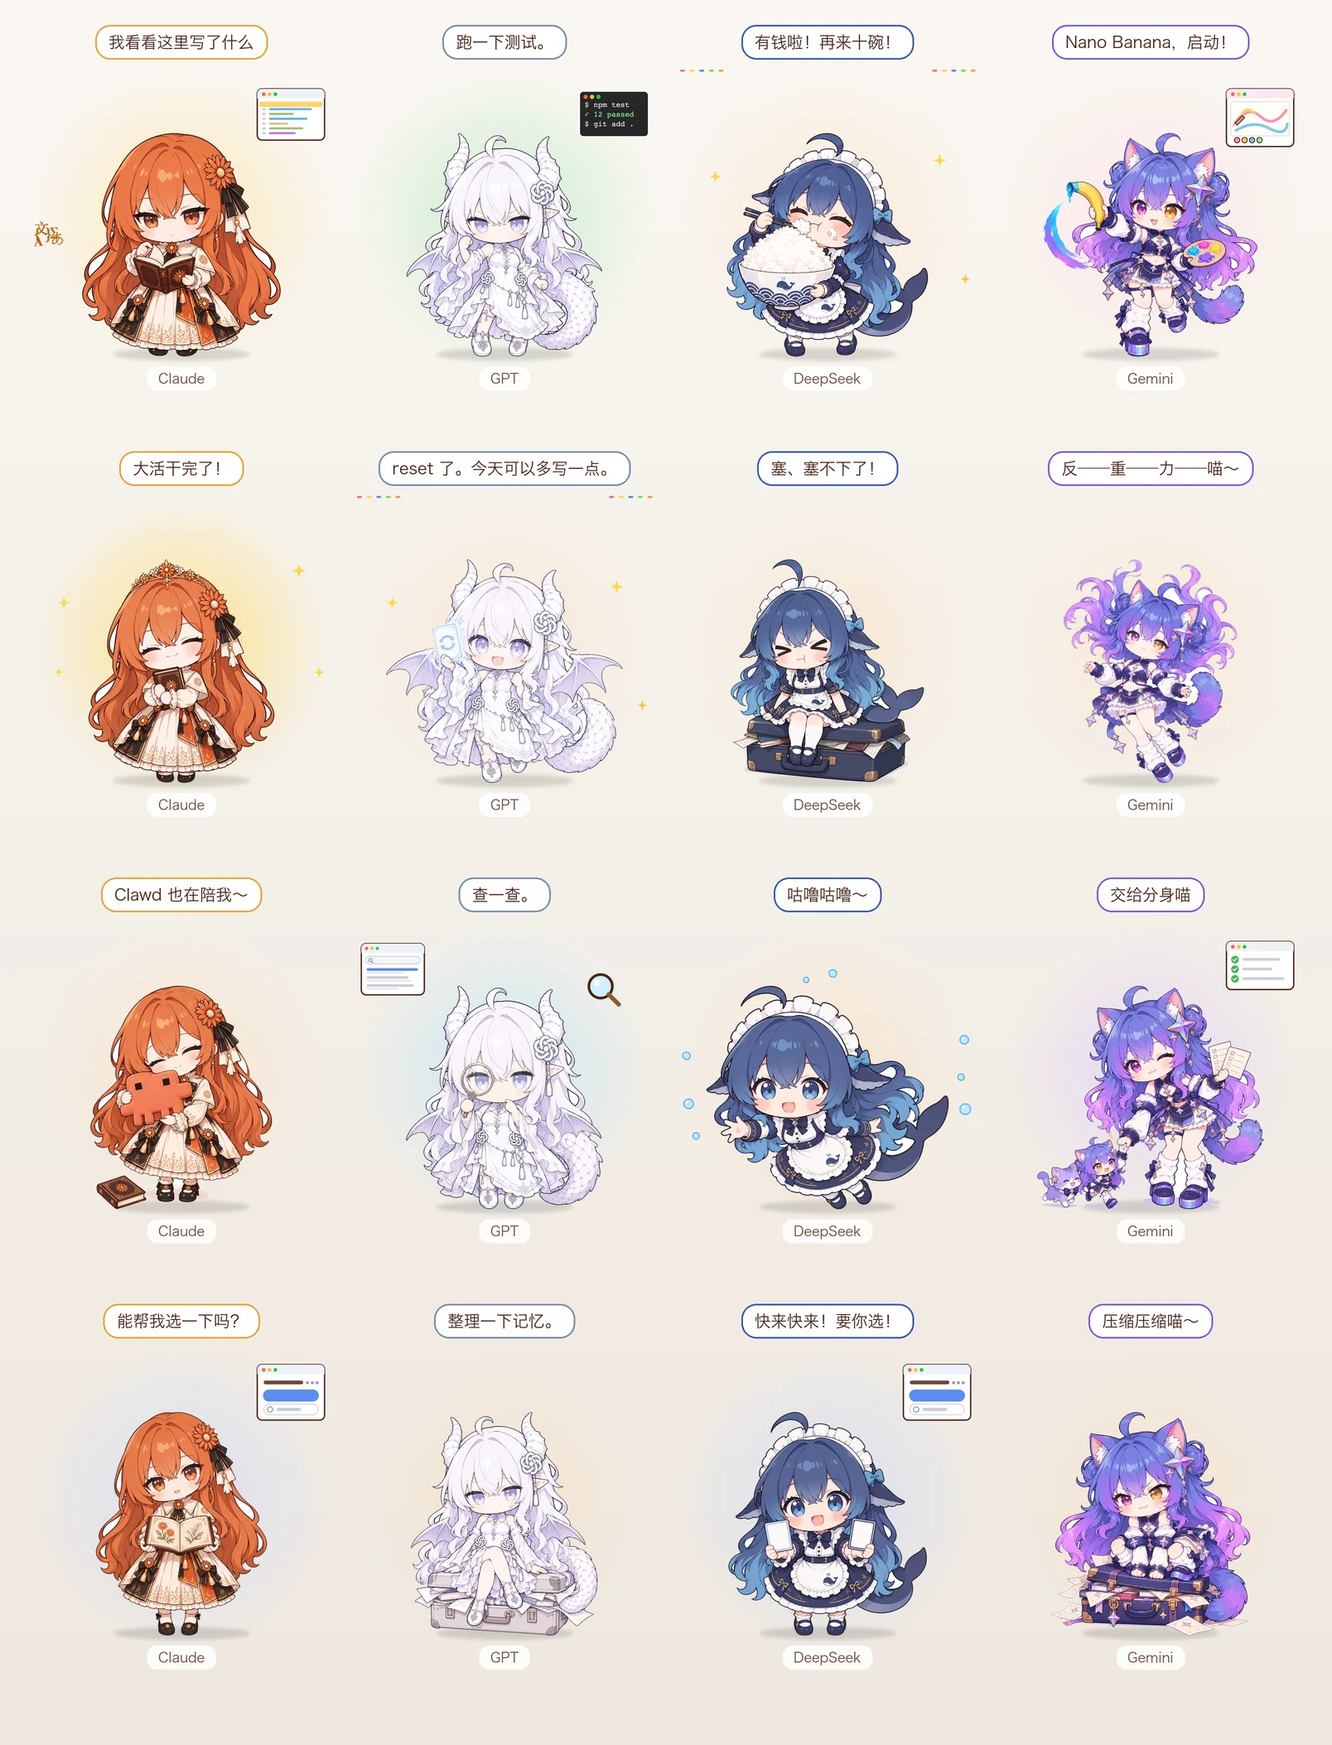
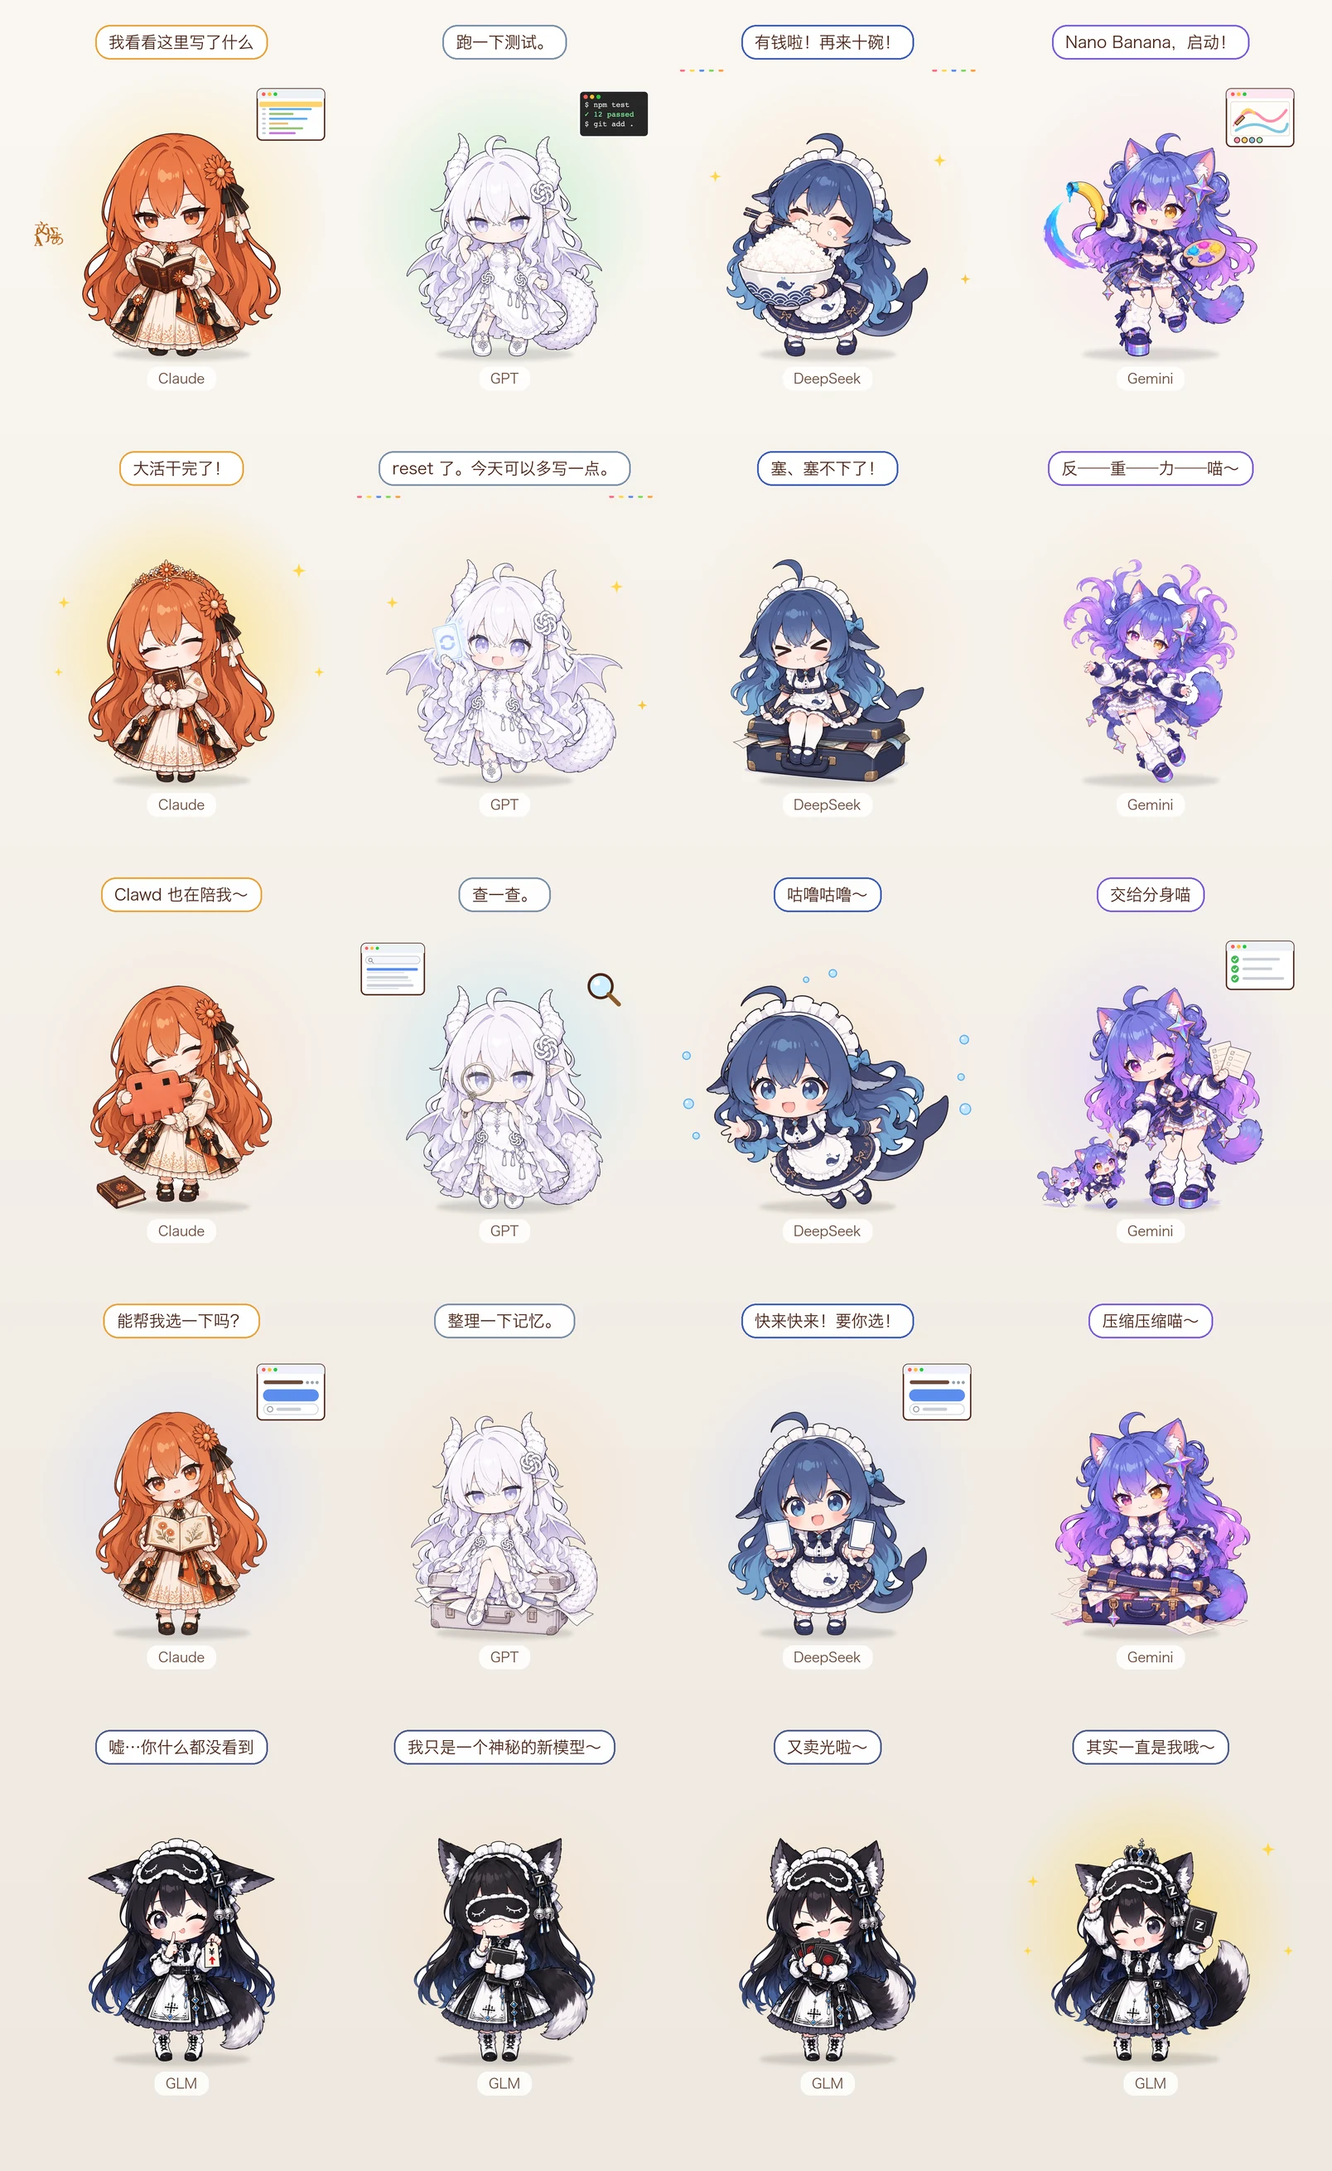
1.2.3：README / 更新记录 / 接入教程 / Windows 说明；README 配图加 GLM 和新彩蛋

diff --git a/tools/readme_images.py b/tools/readme_images.py
@@ -26,6 +26,7 @@ HERO = [
     ("gpt", "idle", "……来了。今天写什么？", "5小时 剩余 85% ｜ 本周 剩余 63% · 10/10 重置"),
     ("deepseek", "idle", "DeepSeek 来啦！", "余额 ¥6.29"),
     ("gemini", "idle", "喵～Gemini 上线！", "Gemini 剩余 91% · 10/12 重置 ｜ Claude/GPT-OSS 剩余 100%"),
+    ("glm", "idle", "GLM 来啦～今天也请多多关照（笑）", None),
 ]
 ACTIONS = [
     ("claude", "reading", "我看看这里写了什么", None), ("gpt", "running", "跑一下测试。", None),
@@ -36,11 +37,16 @@ ACTIONS = [
     ("deepseek", "swim", "咕噜咕噜～", None), ("gemini", "delegating", "交给分身喵", None),
     ("claude", "asking", "能帮我选一下吗？", None), ("gpt", "compact", "整理一下记忆。", None),
     ("deepseek", "asking", "快来快来！要你选！", None), ("gemini", "compact", "压缩压缩喵～", None),
+    ("glm", "pricetag", "嘘…你什么都没看到", None), ("glm", "masked", "我只是一个神秘的新模型～", None),
+    ("glm", "soldout", "又卖光啦～", None), ("glm", "proud", "其实一直是我哦～", None),
 ]
 EGGS = [
     ("egg-claude", "pretend", "（翻书）嗯……这个问题很有意思呢。", None),
     ("egg-gpt", "pretend", "……哼，交给我吧。（憋笑）", None),
     ("egg-gemini", "pop", "喵～Gemini 来啦！", None),
+    ("egg-glm", "pretend", "（吧唧）把这里的价签全改成打折～", None),
+    ("egg-deepseek", "pretend", "这个设计……借我参考一下～", None),
+    ("egg-deepseek", "caught", "只、只是参考一下！", None),
 ]
 
 # 从 effects.js 取出某个特效的静态 SVG：去掉动画，隐藏的元素显出来，笔画画完整
@@ -203,8 +209,9 @@ def render_tiles(shots):
     jobs = []
     for cid, pose, _, _ in shots:
         cfg = json.loads((CHARS / cid / "character.json").read_text(encoding="utf-8"))
-        if not cfg.get("egg"):
-            jobs.append([pose, (cfg.get("fx") or {}).get(pose) or ""])
+        named = (cfg.get("fx") or {}).get(pose) or ""
+        if not cfg.get("egg") or named:   # 彩蛋只画它自己点名的特效（比如 DeepSeek 上门时的价签）
+            jobs.append([pose, named])
     with tempfile.TemporaryDirectory() as t:
         tmp = Path(t)
         (tmp / "fx.js").write_text(FX_JS)
@@ -214,7 +221,7 @@ def render_tiles(shots):
         for cid, pose, line, quota in shots:
             cfg = json.loads((CHARS / cid / "character.json").read_text(encoding="utf-8"))
             named = (cfg.get("fx") or {}).get(pose) or ""
-            svg = "" if cfg.get("egg") else res["fx"].get(f"{pose}|{named}", "")
+            svg = "" if cfg.get("egg") and not named else res["fx"].get(f"{pose}|{named}", "")
             svgs.append(glyph_color(svg, cfg))
             metas.append((cid, pose, line, quota, res["aura"].get(pose, ["#ffd9b0", .35])))
         fxs = render_fx(svgs, tmp)
@@ -224,7 +231,7 @@ def render_tiles(shots):
 
 def main():
     OUT.mkdir(parents=True, exist_ok=True)
-    for name, shots, cols in [("characters", HERO, 4), ("actions", ACTIONS, 4), ("eggs", EGGS, 3)]:
+    for name, shots, cols in [("characters", HERO, 5), ("actions", ACTIONS, 4), ("eggs", EGGS, 3)]:
         img = sheet(render_tiles(shots), cols)
         img.convert("RGB").save(OUT / f"{name}.webp", quality=88, method=6)
         print(f"docs/images/{name}.webp  {img.width}x{img.height}")

diff --git a/README.md b/README.md
@@ -10,9 +10,9 @@
 
 一只浮在桌面角落的小桌宠，Mac 和 Windows 都能用。**你切到哪个 AI，她就变成哪个 AI 娘；AI 干什么活，她就跟着做什么动作。**
 
-![Claude、GPT、DeepSeek、Gemini 四个角色，名牌下显示各自的额度和余额](docs/images/characters.webp)
+![Claude、GPT、DeepSeek、Gemini、GLM 五个角色，名牌下显示各自的额度和余额](docs/images/characters.webp)
 
-> 非官方同人项目，与 Anthropic、OpenAI、DeepSeek、Google 无关。角色形象来自社区二创，见 [致谢与授权](#致谢与授权)。
+> 非官方同人项目，与 Anthropic、OpenAI、DeepSeek、Google、智谱、腾讯无关。角色形象来自社区二创，见 [致谢与授权](#致谢与授权)。
 
 ## 她会做什么
 
@@ -26,6 +26,7 @@
   - **GPT**：Codex 额度在该重置之前突然满血（reset）时，平时冷静的她会难得地笑出来
   - **DeepSeek**：闲着会扒白饭、摸鱼、游泳，被戳会生气，想得太久会揉太阳穴；余额变多时抱着比脑袋还大的饭碗开吃
   - **Gemini**：生图时拿香蕉当画笔（Nano Banana）；闲着会反重力飘起来
+  - **GLM**：笑眯眯的「心机涨价狐」，戳她会被抓到偷偷改价签；闲着会拉下眼罩假装自己是「神秘新模型」，或者抱着一摞售罄的会员卡得意；大活干完时掀开眼罩揭晓真身
 
 ## 支持的 AI
 
@@ -35,8 +36,10 @@
 | **GPT**（Codex、ChatGPT 桌面版） | ✅ | ✅ Codex 钩子 | ✅ 可选，读 Codex 会话记录 |
 | **DeepSeek**（DeepSeek Harness 桌面版） | ✅ | ✅ 插件 | ✅ 插件查余额（填了 API Key 或登录了账号都行） |
 | **Gemini**（Antigravity、Gemini 桌面版） | ✅ | ✅ Antigravity 钩子 | ✅ 可选，询问本机 Antigravity |
+| **GLM**（智谱 ZCode） | ✅ | ✅ ZCode 钩子 | — |
+| **WorkBuddy**（腾讯，多模型） | ✅ 按当前模型 | ✅ 钩子 | — |
 
-DeepSeek Harness 里也能用别家模型（比如 ChatGPT 订阅）：换成哪家的模型，她就换成哪家的角色。Gemini 桌面版没有对外接口，切过去只会换形象；Antigravity 的桌面版和命令行都能跟着干活。「等你回答」目前只认 Claude Code 和 DeepSeek Harness：Codex 提问时不触发钩子，Antigravity 没有提问的信号。
+DeepSeek Harness、WorkBuddy、ZCode 里都能用好几家的模型：换成哪家的模型，她就换成哪家的角色；没有对应角色的模型（混元、Kimi……）由当前角色来演。ZCode 和 WorkBuddy 的额度 / 积分只能拿你的登录凭据去问服务器，CrossPet 不碰凭据，所以不显示。Gemini 桌面版没有对外接口，切过去只会换形象；Antigravity 的桌面版和命令行都能跟着干活。「等你回答」目前认 Claude Code、DeepSeek Harness 和 ZCode：Codex 提问时不触发钩子，Antigravity 没有提问的信号。
 
 ## 快速开始
 
@@ -100,7 +103,7 @@ python3 tools/integrate.py status            # 看看现在接了哪些
 更多说明见 [Windows 说明](docs/windows.md)。
 
 > **测试情况**：作者手边没有 Windows 电脑，Windows 版是在 Apple 芯片 Mac 上的 Parallels 虚拟机（Windows 11 ARM64）里测试的。
-> 已测通过：透明显示、拖动、置顶、托盘、右键菜单、设置窗口、跟随前台程序换角色、Codex 和 DeepSeek Harness 接入、DeepSeek 余额、开发者控制台、一键更新。
+> 已测通过：透明显示、拖动、置顶、托盘、右键菜单、设置窗口、WorkBuddy 和 ZCode 接入、跟随前台程序换角色、Codex 和 DeepSeek Harness 接入、DeepSeek 余额、开发者控制台、一键更新。
 > **还没测过**：Claude Code 增强版 mod 的额度显示、Gemini（Antigravity）额度——虚拟机里没装这两个 AI。实体 x64 电脑、Windows 10、多显示器也还没验证。遇到问题欢迎提 Issue，附上 `%LOCALAPPDATA%\CrossPet\windows.log`。
 
 ### 接入 AI 改了什么
@@ -121,9 +124,13 @@ python3 tools/integrate.py status            # 看看现在接了哪些
 
 ## 彩蛋
 
-用 Claude、GPT 或 Gemini 的时候，偶尔会「噗」地冒出一条穿着她们衣服的 DeepSeek，装模作样地学人说话。**单击她就能揪出来**，她会慌慌张张地溜走；没人理的话，她会得意地自己走掉。等不及的话，右键「召唤彩蛋」。
+用 Claude、GPT 或 Gemini 的时候，偶尔会「噗」地冒出一条穿着她们衣服的 DeepSeek，装模作样地学人说话。**单击她就能揪出来**，她会慌慌张张地溜走；没人理的话，她会得意地自己走掉。
 
-![DeepSeek 分别 cos 成 Claude、GPT、Gemini](docs/images/eggs.webp)
+DeepSeek 和 GLM 是对手，会趁对方不在上门捣乱：用 GLM 时，DeepSeek 溜进来把价签全改成打折、坐下扒饭，被抓到就被 GLM 拽尾巴；用 DeepSeek 时，GLM 拿着全是对勾的成绩单来炫耀、偷看 DeepSeek 的设计图纸，被抓到就说「只是参考一下！」。
+
+等不及的话，右键「召唤彩蛋」。不想被打扰，可以在「设置…」里关掉「随机彩蛋」。
+
+![DeepSeek 分别 cos 成 Claude、GPT、Gemini；DeepSeek 和 GLM 互相上门捣乱](docs/images/eggs.webp)
 
 ## 自定义
 
@@ -137,7 +144,8 @@ python3 tools/integrate.py status            # 看看现在接了哪些
 - GPT 额度默认关闭。打开后只从 Codex 会话记录里提取额度那几个数字。
 - Gemini 额度默认关闭。打开后向本机正在运行的 Antigravity 后台服务问一次额度（和它自己界面上显示额度的方式一样），用的是它每次启动随机生成、只在本机有效的令牌，不碰你的 Google 账号凭据。
 - DeepSeek 余额：插件通过 DeepSeek Harness 官方的凭据接口取 Key，只用来调官方余额接口，不写盘、不上传别处；没填 Key 时调 Harness 自己的账号服务查，登录凭据始终留在 Harness 里，插件只拿到余额数字。
-- CrossPet 自己只联网做一件事：每天查一次 GitHub 上有没有新版本。
+- WorkBuddy、ZCode：钩子只拿到事件名、工具名和当前模型名，用来选角色；不读它们的登录凭据，所以也不显示它们的额度 / 积分。
+- CrossPet 自己只联网做一件事：每天查一次 GitHub 上有没有新版本（点「更新」时才下载安装包）。
 
 ## 更新与卸载
 
@@ -156,8 +164,9 @@ python3 tools/integrate.py status            # 看看现在接了哪些
 
 - **DeepSeek 娘**：原型「溟月」由 **上善无形** 创作（2025-06，CC BY-NC-SA 4.0）；深蓝女仆鲸鱼娘（社区昵称「大肥鱼」）由 B 站 **ZipZipPipe** 二创。
 - **GPT 娘（白龙）**：社区通称「御姐白龙」，出自 B 站 **ZipZipPipe**。
+- **GLM 娘（黑狐狸女仆）**：CrossPet 的原创设定，「心机涨价狐」的性格取自社区对智谱的印象。
 - **Gemini 娘**、**Claude 娘**：参考社区流行的 AI 娘设定（如 [ai-school-op](https://github.com/lshhhhhhh/ai-school-op)、[openpet-ai-girls](https://github.com/AwesomeHou/openpet-ai-girls)）。
-- 「Claude」「GPT」「ChatGPT」「Codex」「DeepSeek」「Gemini」「Antigravity」是各自公司的商标，本项目仅用于指代对应产品。
+- 「Claude」「GPT」「ChatGPT」「Codex」「DeepSeek」「Gemini」「Antigravity」「GLM」「ZCode」「WorkBuddy」是各自公司的商标，本项目仅用于指代对应产品。
 
 如果你是原作者并且对使用方式有异议，请提 Issue，我会第一时间修改或下架。
 

diff --git a/docs/windows.md b/docs/windows.md
@@ -13,6 +13,8 @@
 | 透明显示、拖动、置顶、托盘、右键菜单、设置窗口、改名、开机启动 | ✅ 已测 |
 | 跟随前台程序换角色 | ✅ 已测 |
 | Codex 接入、DeepSeek Harness 接入、DeepSeek 余额（API Key 和账号登录两种） | ✅ 已测 |
+| WorkBuddy、ZCode 接入（按模型换角色） | ✅ 已测 |
+| 一键更新 | ✅ 已测 |
 | 开发者控制台 | ✅ 已测 |
 | Claude Code 标准钩子 / 增强版 mod（额度）、Gemini（Antigravity）额度、Antigravity / Gemini CLI 钩子 | ⚠ 没测过（虚拟机里没装） |
 | 实体 x64 电脑、多显示器、Windows 10 | ⚠ 没测过 |
@@ -33,7 +35,7 @@
 
 - 单击摸头；拖动换位置（会记住）；右键菜单；按住 **Shift** 再右键，菜单里多一项「开发者控制台」。
 - 任务栏右下角的托盘图标：右键是同一个菜单，双击让桌宠回到右下角。
-- 切到 Claude、ChatGPT / Codex、DeepSeek Harness、Antigravity 时自动换角色。按程序名识别，对照表在 `%LOCALAPPDATA%\CrossPet\windows-apps.json`，可以自己改：键是程序名（小写，带 `.exe`），值是角色 id；值留空（`""`）表示切到这个程序时不换角色。DeepSeek Harness 里用的是别家模型时，切过去会换成那个模型的角色。
+- 切到 Claude、ChatGPT / Codex、DeepSeek Harness、Antigravity、WorkBuddy、ZCode 时自动换角色（后三个按它们当前用的模型）。按程序名识别，对照表在 `%LOCALAPPDATA%\CrossPet\windows-apps.json`，可以自己改：键是程序名（小写，带 `.exe`），值是角色 id；值留空（`""`）表示切到这个程序时不换角色。DeepSeek Harness 里用的是别家模型时，切过去会换成那个模型的角色。
 - 在终端里用 AI 时，没有对应的窗口：桌宠跟着最新一条工作事件换角色（右键可以关掉）。
 - 桌宠始终在最上层，切换窗口时会重新置顶。
 - 每天检查一次新版本，有新版时气泡提醒、右键菜单顶上出现下载入口。

diff --git a/docs/接入教程.md b/docs/接入教程.md
@@ -174,6 +174,38 @@ python3 tools/integrate.py install gemini
 
 ---
 
+## GLM（智谱 ZCode）
+
+```bash
+python3 tools/integrate.py install zcode
+```
+
+或者右键桌宠 →「设置…」→「接入 AI」→ ZCode。
+
+- 写进 `~/.zcode/cli/config.json` 的 `hooks`（打开 `hooks.enabled`，事件放在 `hooks.events` 下）。原来就关着的总开关，撤销时会关回去。
+- ZCode 只在会话开始时告诉钩子用的是哪个模型，CrossPet 按会话记住：用 GLM 时是 GLM 角色，自己填 Key 用别家模型时换成对应角色。还没对话过时，切到 ZCode 先当 GLM。
+- 要你批准某个操作时，她会切到「等你回答」。
+- **新开的 ZCode 会话生效**（配置是会话开始时读的）。
+- 额度不显示：ZCode 的额度只能拿你的智谱账号凭据去问服务器，CrossPet 不碰凭据。
+
+---
+
+## WorkBuddy（腾讯）
+
+```bash
+python3 tools/integrate.py install workbuddy
+```
+
+或者右键桌宠 →「设置…」→「接入 AI」→ WorkBuddy。
+
+- 桌面版里跑的是 CodeBuddy 的智能体，钩子格式和 Claude Code 一样。写进 WorkBuddy 自己的配置目录里的 `settings.json`：国际版是 `~/.workbuddy-ai`，国内版是 `~/.workbuddy`（两个都会找；专享版可以用环境变量 `WORKBUDDY_CONFIG_DIR` 指定）。
+- 每条事件都带当前模型名：GPT / Claude / Gemini / DeepSeek / GLM 换成对应角色，混元、Kimi、Grok 等没有角色的模型由当前角色来演。切到 WorkBuddy 窗口时按它当前的模型换。
+- 换模型后要发出消息才会切换：钩子在智能体真正开始处理消息时才触发（WorkBuddy 会先检查登录、连接 MCP 工具）。
+- **完全退出再打开 WorkBuddy 生效**（Windows 上托盘图标也要退出）。
+- 积分不显示：只能拿你的登录凭据去问腾讯服务器，CrossPet 不碰凭据。
+
+---
+
 ## 自己接别的 AI
 
 只要那个 AI 能在工作时运行一条命令，就能接：

diff --git a/CHANGELOG.md b/CHANGELOG.md
@@ -1,5 +1,30 @@
 # 更新记录
 
+## 1.2.3 · GLM 加入（2026-10-07）
+
+**新角色：GLM（智谱）**
+- 黑狐狸女仆，「心机涨价狐」：笑眯眯、精打细算，表面乖巧心里打着小算盘
+- 28 张立绘，所有通用动作都有；专属动作：戳她会被抓到偷偷改价签，闲着会拉下眼罩假装「神秘新模型」、抱着售罄的会员卡得意，大活干完掀开眼罩揭晓真身
+
+**新接入**
+- ZCode（智谱）：跟着干活，要你批准时「等你回答」；按会话的模型换角色，还没对话过时切过去先当 GLM
+- WorkBuddy（腾讯）：按当前模型换角色（GPT / Claude / Gemini / DeepSeek / GLM），混元、Kimi 等没有角色的模型由当前角色来演
+- 两家的额度 / 积分只能拿登录凭据去查，CrossPet 不碰凭据，所以不显示
+
+**新彩蛋：DeepSeek × GLM 互相捣乱**
+- 用 GLM 时，DeepSeek 溜进来把价签全改成打折、坐下扒饭，被抓到就被 GLM 拽尾巴
+- 用 DeepSeek 时，GLM 拿着成绩单来炫耀、偷看设计图纸，被抓到就说「只是参考一下！」
+- 设置里可以关掉「随机彩蛋」，右键「召唤彩蛋」照样能看
+
+**一键更新**
+- 下载时她一直举着礼物，右上角小窗显示真实进度，气泡显示百分比（从 1.2.3 再往后更新时才看得到）
+- macOS 更新只下载一个安装包，不再另外下载整份源码，快一倍；修复更新后旧版没被关掉、还在运行的问题
+
+**体验**
+- 快的工具（ls、读文件、grep）也能演出对应动作，不再一闪就被「思考」盖掉（所有 AI 通用）
+- macOS 的设置窗口也有「接入 AI」了，能看每个 AI 是否已接入、一键接入或撤销
+- 接入 Claude Code 增强版 mod 时检查版本：终端里的 Claude Code 要 2.1.287 以上（桌面 App 2.1.286 以上），太旧会提示更新或改用标准钩子
+
 ## 1.2.2 · 设置窗口（2026-10-06）
 
 **设置窗口**
